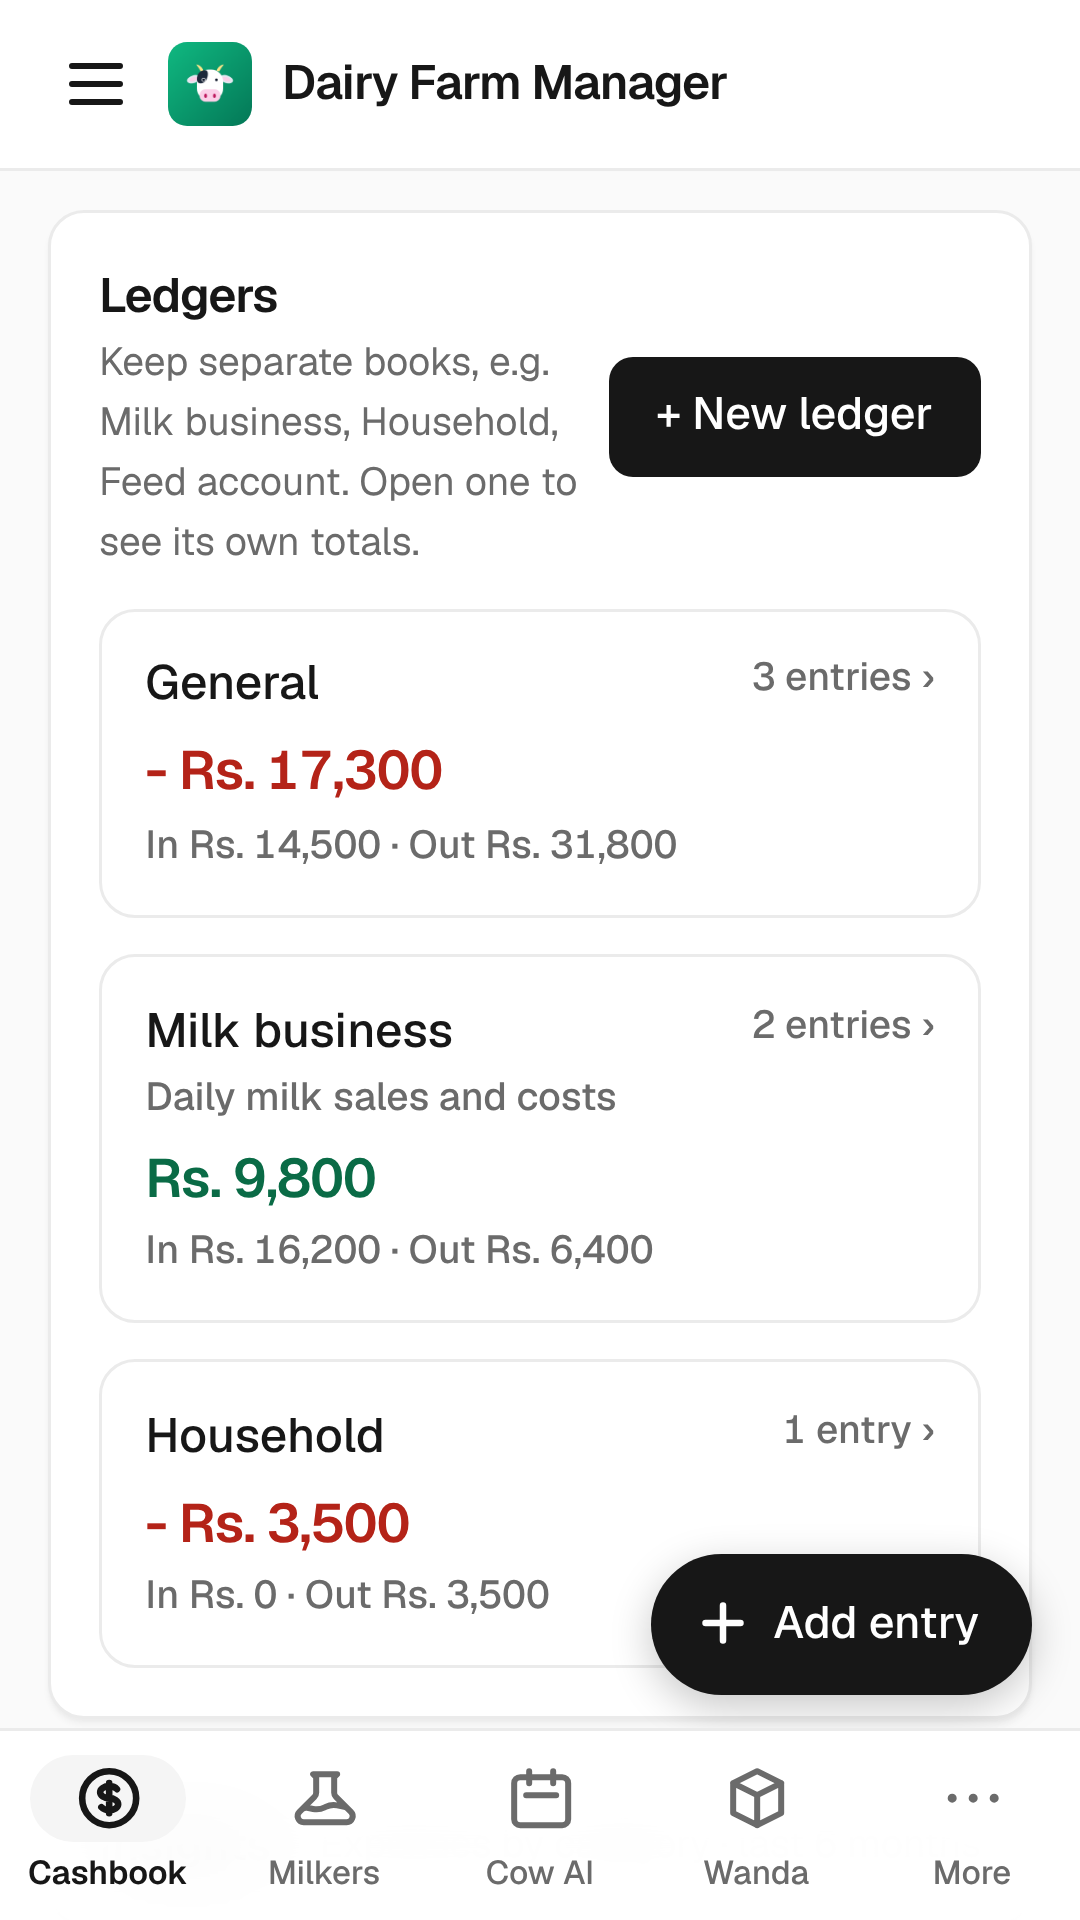
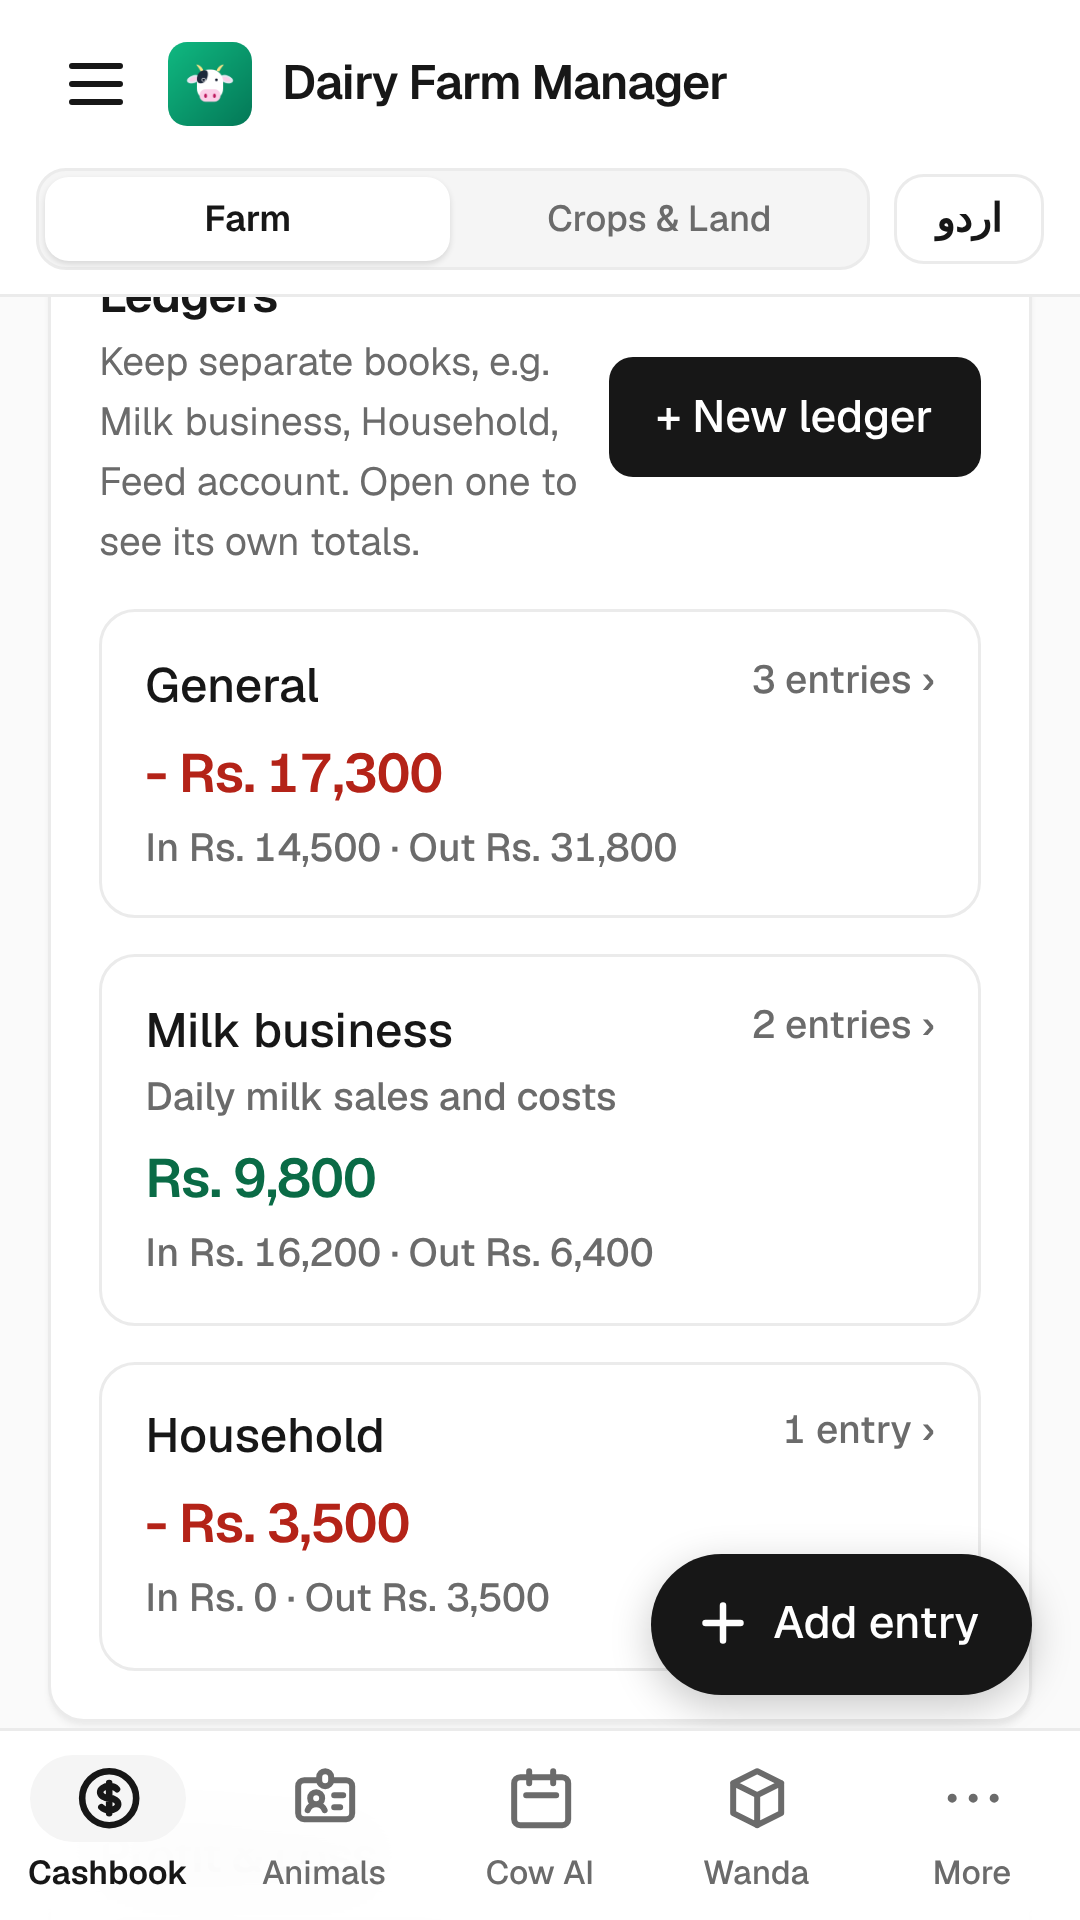
Audit: Urdu fonts and minus sign, landing page and store images refreshed, version 3.1.0
Claude-Session: https://claude.ai/code/session_01Ru93sJS3mGjfDT1r7GoXs6

diff --git a/site/index.html b/site/index.html
@@ -94,7 +94,7 @@
           <article class="card reveal">
             <span class="icon"><svg viewBox="0 0 24 24" aria-hidden="true"><path d="M12 8c-1.7 0-3 .9-3 2s1.3 2 3 2 3 .9 3 2-1.3 2-3 2m0-8c1.1 0 2.1.4 2.6 1M12 8V7m0 1v8m0 0v1m0-1c-1.1 0-2.1-.4-2.6-1M21 12a9 9 0 11-18 0 9 9 0 0118 0z"/></svg></span>
             <h3>Cashbook</h3>
-            <p>Record income and expenses in seconds. See monthly totals, where the money goes, and your balance.</p>
+            <p>Record income and expenses in seconds. Keep separate ledgers, and see profit or loss for today, the week, the month and the year.</p>
           </article>
           <article class="card reveal">
             <span class="icon"><svg viewBox="0 0 24 24" aria-hidden="true"><path d="M8 7V3m8 4V3m-9 8h10M5 21h14a2 2 0 002-2V7a2 2 0 00-2-2H5a2 2 0 00-2 2v12a2 2 0 002 2z"/></svg></span>
@@ -130,6 +130,26 @@
             <span class="icon"><svg viewBox="0 0 24 24" aria-hidden="true"><path d="M3 10h18M7 15h1m4 0h1m-7 4h12a3 3 0 003-3V8a3 3 0 00-3-3H6a3 3 0 00-3 3v8a3 3 0 003 3z"/></svg></span>
             <h3>Sold animals</h3>
             <p>See the profit or loss on every animal you sell, and keep the sale in your cashbook.</p>
+          </article>
+          <article class="card reveal">
+            <span class="icon"><svg viewBox="0 0 24 24" aria-hidden="true"><path d="M10 6H5a2 2 0 00-2 2v9a2 2 0 002 2h14a2 2 0 002-2V8a2 2 0 00-2-2h-5m-4 0V5a2 2 0 114 0v1m-4 0a2 2 0 104 0m-5 8a2 2 0 100-4 2 2 0 000 4zm0 0c1.3 0 2.4.8 2.8 2M9 14a3 3 0 00-2.8 2M15 11h3m-3 4h2"/></svg></span>
+            <h3>Animal profiles</h3>
+            <p>Every cow has her own page: AI and pregnancy days, treatments, calves, and whether she was sold with or without her calf.</p>
+          </article>
+          <article class="card reveal">
+            <span class="icon"><svg viewBox="0 0 24 24" aria-hidden="true"><path d="M3 21h18M5 21V9l7-5 7 5v12M9 21v-6h6v6"/></svg></span>
+            <h3>Goats, sheep and horses</h3>
+            <p>Keep records for the whole farm, not only cattle: single animals or a flock count, with cost, status and sale price.</p>
+          </article>
+          <article class="card reveal">
+            <span class="icon"><svg viewBox="0 0 24 24" aria-hidden="true"><path d="M12 21V9m0 0c0-3 2-5 5-5 0 3-2 5-5 5zm0 4c0-2.5-1.8-4.5-4.5-4.5 0 2.5 1.8 4.5 4.5 4.5zM8 21h8"/></svg></span>
+            <h3>Crops and land record</h3>
+            <p>Switch to Crops for wheat, barseem, alfalfa and more: land (own or Theeka), seed, water, fertiliser, labour, yield, and profit or loss per crop.</p>
+          </article>
+          <article class="card reveal">
+            <span class="icon"><svg viewBox="0 0 24 24" aria-hidden="true"><path d="M3 5h12M9 3v2m1.05 7.5C8.5 15 6.5 17 4 18.5M5 9c1 2.5 3 4.5 6 6m5-7l5 12m-8.5-4h7"/></svg></span>
+            <h3>Urdu and English</h3>
+            <p>Choose Urdu or English when you start, and switch any time from the top of the app.</p>
           </article>
         </div>
       </div>

diff --git a/src/styles.css b/src/styles.css
@@ -777,6 +777,8 @@ html.lang-ur { font-size: 17px; }
 html.lang-ur body, html.lang-ur button, html.lang-ur input, html.lang-ur select, html.lang-ur textarea {
   font-family: 'Noto Naskh Arabic Variable', 'Noto Naskh Arabic', 'Geist Variable', system-ui, sans-serif;
 }
+/* the small caps labels use a monospace font in English; Urdu letters must join, so every element uses the Urdu font */
+html.lang-ur *:not(svg):not(svg *) { font-family: 'Noto Naskh Arabic Variable', 'Noto Naskh Arabic', 'Geist Variable', system-ui, sans-serif !important; }
 html.lang-ur #languageGate .gate-ur { font-family: 'Noto Naskh Arabic Variable', 'Noto Naskh Arabic', system-ui, sans-serif; }
 /* letter-spacing and capitals are for Latin labels only */
 html.lang-ur * { letter-spacing: normal !important; text-transform: none !important; }

diff --git a/tests/unit/i18n.test.js b/tests/unit/i18n.test.js
@@ -26,6 +26,10 @@ describe('translate', () => {
     expect(translate('e.g. Cow #07 (Chandi)')).toBe('مثلاً Cow #07 (Chandi)');
     expect(translate('No matches for “raja”.')).toBe('“raja” کے لیے کوئی نتیجہ نہیں۔');
   });
+  it('keeps the minus sign with the amount in right-to-left text', () => {
+    expect(translate('- Rs. 17,300')).toBe('\u200e- Rs. 17,300');
+    expect(translate('+ Rs. 14,500')).toBe('\u200e+ Rs. 14,500');
+  });
   it('returns null for text it does not know (user data stays as typed)', () => {
     expect(translate('Zorro the Hamster')).toBeNull();
     expect(translate('Chaudhry Tariq')).toBeNull();

diff --git a/src/i18n/patterns.js b/src/i18n/patterns.js
@@ -121,5 +121,7 @@ export const PATTERNS = [
   [/^(Rabi \(Winter\)|Kharif \(Summer\)|Year-round) (\d{4})$/, '$1 $2'],
   [/^([\d.,]+) (Maund \(40 kg\)|Kg|Ton|Trolley|Bundles)$/, '$1 $2'],
   [/^Target: ~15 mo \/ 250\+ kg$/, 'ہدف: تقریباً 15 ماہ / 250+ کلو'],
+  // a leading sign in front of an amount would be flipped to the wrong end in right-to-left text; \u200e keeps it with the number
+  [/^([-+\u2212]) (Rs\. [\d,.]+)$/, '\u200e$1 $2'],
   [/^Rs\. ([\d,.\-]+)$/, 'Rs. $1']
 ];

diff --git a/memory.md b/memory.md
@@ -1,7 +1,7 @@
 # Dairy Farm Manager: project memory
 
 Living notes so anyone (or any future session) can pick the project up quickly.
-Last updated: 2026-11-06. Keep secrets out of this file.
+Last updated: 2026-11-09. Keep secrets out of this file.
 
 ## What this is
 Offline-first farm record keeping for dairy farmers: cashbook, cow AI and pregnancy tracking, monthly
@@ -99,6 +99,7 @@ Capacitor 8 (Android target API 36, Node 22+, JDK 21), Geist fonts (latin-only v
 - **Crops & Land mode (2026-11-09):** the Farm | Crops & Land toggle under the header (`ui/mode.js`, remembered in localStorage `dairy_farm_mode`, `body[data-mode]`; `.farm-only` / `.crops-only` classes) swaps the bottom bar (Crops, Land, More) and sections. Collections `lands` ({name, ownership Own/Theeka, area, unit Acre/Kanal/Marla, theeka per year, owner, water, notes}) and `crops` ({crop, cropOther, season, year, landId or landName, area, areaUnit, ownership, sowingDate, seedVariety, seedRate kg/acre, water, irrigations, notes, status, `costs[]` {category, label, amount, date}, `harvests[]` {date, qty, unit, income, note}}). Totals are always derived (`lib/crops.js`: cropTotals, cropsSummary; 1 acre = 8 kanal = 160 marla). The add form's "costs so far" create the first cost lines (add-only); the crop details sheet adds/edits/removes cost lines and harvests (uses `commit('local-keep')` so the sheet stays open and sync still runs). Back button returns to `homeTab()`.
 - **Urdu / English (2026-11-09):** first-run screen `#languageGate` (before anything else; choice kept in localStorage `dairy_farm_lang`) and a toggle button `#langToggleBtn` next to the Farm/Crops switch. English stays the source language: `src/i18n/index.js` translates the DOM in place from `ur.json` (exact text, whitespace-normalised) + number-aware regex rules in `patterns.js`, with a MutationObserver for everything rendered later (toasts, lists, sheets); text that has no entry (user data, sample names) stays as typed, and stored data is never translated. `"a • b"` strings are translated part by part. Placeholders/aria-labels/titles are translated too (`e.g. ...` keeps the example). `langchange` event re-renders (dates use `ur-PK-u-nu-latn` via `dateLocale()`). RTL: `html[dir=rtl]` rules at the end of `styles.css` (FAB and drawer move to the other side, numbers/dates stay LTR); Urdu font is Noto Naskh Arabic (variable, loaded only when Urdu is chosen). **Adding a screen or string: add the English text to a `src/i18n/*.txt`-style source and `ur.json` (keys are the exact English text); untranslated text just shows in English. The mobile "install guide" modal is English only. Translations were written by an AI and need a native-speaker review.** Playwright tests start with the language already set to English (the `__lang_init` init script) except the Urdu tests.
 - **Wanda totals (2026-11-09):** the Wanda tab starts with a summary card (`wandaTotals()` in `lib/calc.js`): total Wanda cost, total paid, balance due, bags and a paid-% bar, over all stock batches.
+- **Audit 2026-11-09:** (1) records from a restore/cloud can hold anything, so every number or date interpolated into HTML is escaped, and `formatDisplayDate` returns "—" for bad dates instead of echoing the text; `tests/e2e/app.spec.js` "hostile data" poisons every field of every collection and opens every screen, so a new view that forgets `escapeHtml` fails that test. (2) Dark-mode colour rules are exact class names: a new pale tint (e.g. `bg-emerald-50/60`) needs a rule in the "variants added after the colour pass" block at the end of `styles.css`. (3) The sync engine keeps cloud collections it does not know about (newer app version) when it pushes. **Rollout note: an app older than the crops/goats/horses release that syncs the same account can still drop those collections (it predates this safeguard), so update every device/tester.** (4) Version is 3.1.0 (`package.json`); landing page, store screenshots (`scripts/make-store-assets.mjs`) and `site/img` were refreshed.
 - **Motion:** CSS keyframes + `ui/motion.js`. A tab opening adds `.tab-enter` for about 1s (so ordinary re-renders never replay
   it); money cards count up (`animateNumber`, final text is always exact); progress bars grow; sheets, dialogs and toasts
   animate. Everything respects `prefers-reduced-motion`. Beware: never animate a transform on an ancestor of a

diff --git a/store/LISTING.md b/store/LISTING.md
@@ -77,7 +77,7 @@ Your records stay on your phone unless you create an account. With an account, e
 | --- | --- |
 | App icon (512x512) | `app-icon-512.png` |
 | Feature graphic (1024x500) | `feature-graphic-1024x500.png` |
-| Phone screenshots (upload 2 to 8, in this order) | `screenshots/1-cashbook.png` to `screenshots/8-dark.png` (1080x1920) |
+| Phone screenshots (upload 2 to 8, in this order) | `screenshots/1-cashbook.png` to `screenshots/8-urdu.png` (1080x1920: cashbook, ledgers, a ledger, Cow AI, animal profile, crops, Wanda, Urdu) |
 
 The screenshots use the app's sample data. Regenerate them after big UI changes with `scripts/make-store-assets.mjs`.
 
